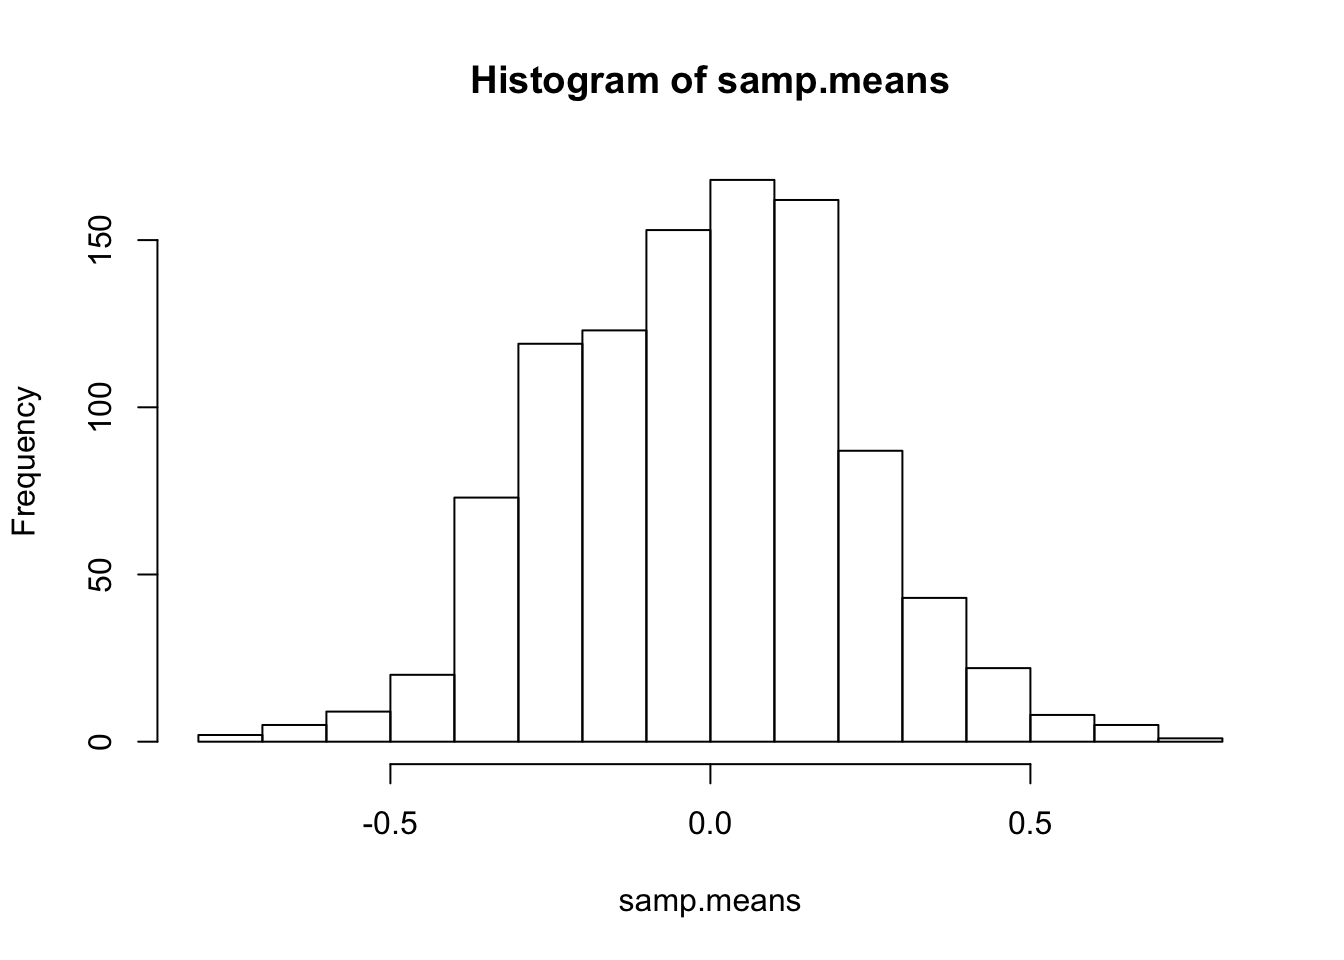
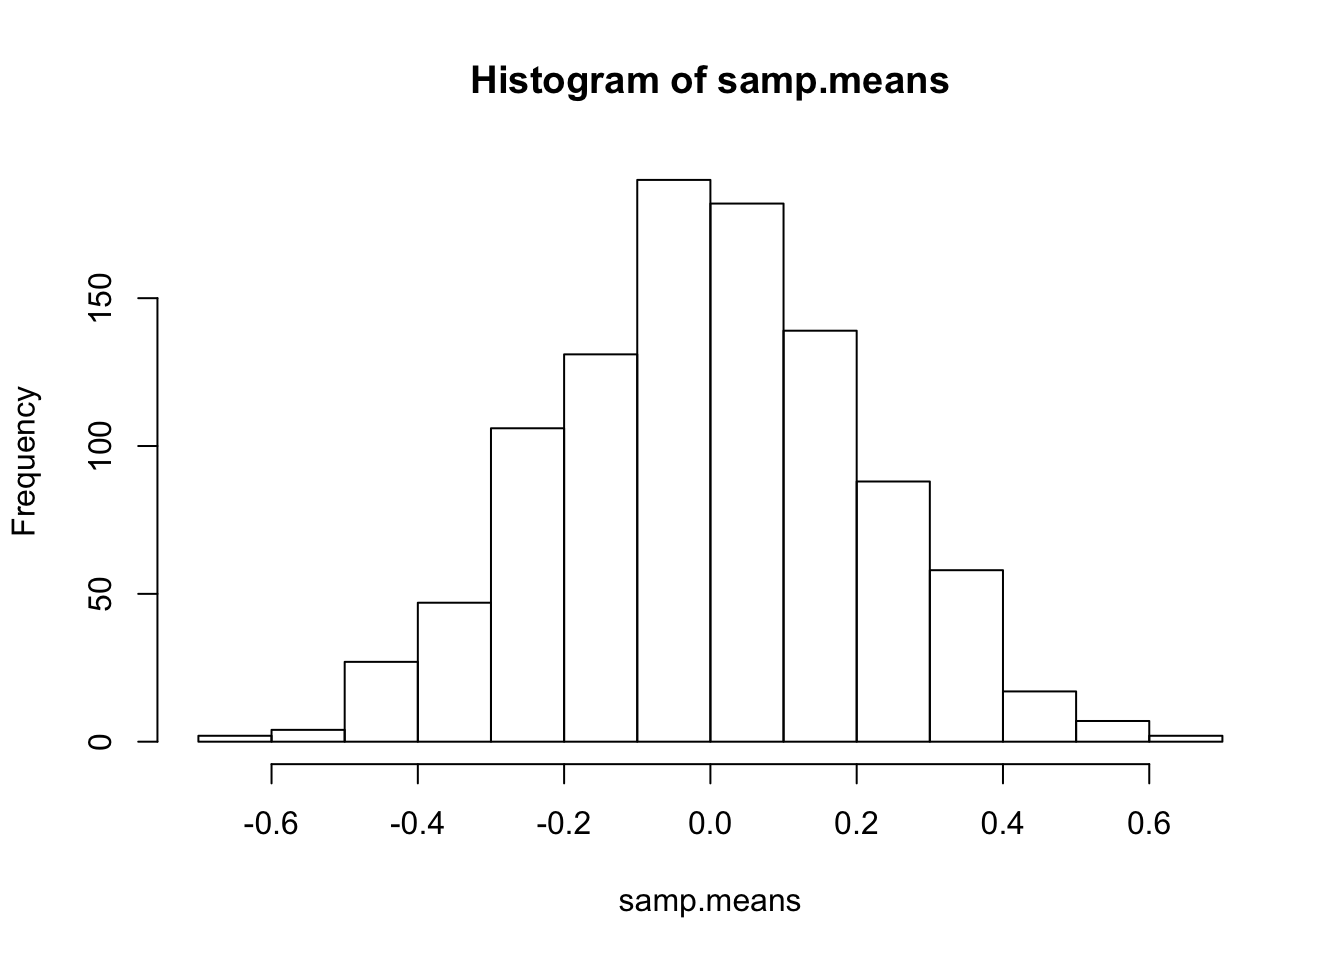
added mse

diff --git a/docs/randomvars.html b/docs/randomvars.html
@@ -218,6 +218,10 @@ code span.wa { color: #60a0b0; font-weight: bold; font-style: italic; } /* Warni
 <li class="chapter" data-level="6.2" data-path="estimators.html"><a href="estimators.html#variance"><i class="fa fa-check"></i><b>6.2</b> Variance</a><ul>
 <li class="chapter" data-level="6.2.1" data-path="estimators.html"><a href="estimators.html#exercise-set-6-2"><i class="fa fa-check"></i><b>6.2.1</b> Exercise set 6-2</a></li>
 </ul></li>
+<li class="chapter" data-level="6.3" data-path="estimators.html"><a href="estimators.html#mean-squared-error"><i class="fa fa-check"></i><b>6.3</b> Mean squared error</a><ul>
+<li class="chapter" data-level="6.3.1" data-path="estimators.html"><a href="estimators.html#exercise-set-6-3"><i class="fa fa-check"></i><b>6.3.1</b> Exercise set 6-3</a></li>
+</ul></li>
+<li class="chapter" data-level="6.4" data-path="estimators.html"><a href="estimators.html#consistency"><i class="fa fa-check"></i><b>6.4</b> Consistency</a></li>
 </ul></li>
 <li class="divider"></li>
 <li><a href="https://github.com/rstudio/bookdown" target="blank">Published with bookdown</a></li>
@@ -450,11 +454,11 @@ The expectation is:</p>
 <a class="sourceLine" id="cb78-5" title="5"><span class="co"># Each row represents a sample (instance) drawn from X_i</span></a>
 <a class="sourceLine" id="cb78-6" title="6">samp.mat &lt;-<span class="st"> </span><span class="kw">matrix</span>(samps, <span class="dt">ncol =</span> n.samps) </a>
 <a class="sourceLine" id="cb78-7" title="7"><span class="kw">str</span>(samp.mat)</a></code></pre></div>
-<pre><code>##  num [1:20, 1:1000] 1.5807 1.7095 0.0137 0.0214 -1.0792 ...</code></pre>
+<pre><code>##  num [1:20, 1:1000] 0.8825 -1.5898 -0.0298 0.0718 -1.9152 ...</code></pre>
 <div class="sourceCode" id="cb80"><pre class="sourceCode r"><code class="sourceCode r"><a class="sourceLine" id="cb80-1" title="1"><span class="co"># Here we calculate the sample mean for each X_i (column)</span></a>
 <a class="sourceLine" id="cb80-2" title="2">samp.means &lt;-<span class="st"> </span><span class="kw">colMeans</span>(samp.mat)</a>
 <a class="sourceLine" id="cb80-3" title="3"><span class="kw">str</span>(samp.means)</a></code></pre></div>
-<pre><code>##  num [1:1000] -0.3008 0.0284 -0.3274 -0.3161 0.3096 ...</code></pre>
+<pre><code>##  num [1:1000] -0.104 0.13 -0.503 -0.188 0.161 ...</code></pre>
 <div class="sourceCode" id="cb82"><pre class="sourceCode r"><code class="sourceCode r"><a class="sourceLine" id="cb82-1" title="1"><span class="kw">hist</span>(samp.means)</a></code></pre></div>
 <p><img src="05_random-variables_files/figure-html/unnamed-chunk-1-1.png" width="672" /></p>
 <p>2a. What happens if we change <code>samp.size</code> (i.e., <span class="math inline">\(n\)</span>)?</p>
@@ -766,7 +770,7 @@ f_{X|Y}(x |Y = y) =&amp; \frac{f_{X,Y}(x,y)}{f_{Y}(y)}
 ##     lines(x, dnorm(x, mean = mean(dosm), sd = sd(dosm)))
 ##     c(`mean of DOSM` = mean(dosm), `SD of DOSM` = sd(dosm), `var of DOSM` = var(dosm))
 ## }
-## &lt;bytecode: 0x7f9be028a080&gt;
+## &lt;bytecode: 0x7fed27965a08&gt;
 ## &lt;environment: namespace:stfspack&gt;</code></pre>
 <div class="sourceCode" id="cb101"><pre class="sourceCode r"><code class="sourceCode r"><a class="sourceLine" id="cb101-1" title="1">nsim &lt;-<span class="st"> </span><span class="dv">10000</span></a>
 <a class="sourceLine" id="cb101-2" title="2">n &lt;-<span class="st"> </span><span class="dv">1</span></a>
@@ -839,7 +843,7 @@ If the shape parameter is <span class="math inline">\(\leq\)</span> 2, <span cla
 ##     mean(x &lt; (mu - k * sigma) | x &gt; (mu + k * sigma))/(1 - (pnorm(k) - 
 ##         pnorm(-k)))
 ## }
-## &lt;bytecode: 0x7f9be02ddee0&gt;
+## &lt;bytecode: 0x7fed27975bf8&gt;
 ## &lt;environment: namespace:stfspack&gt;</code></pre>
 <div class="sourceCode" id="cb114"><pre class="sourceCode r"><code class="sourceCode r"><a class="sourceLine" id="cb114-1" title="1">k &lt;-<span class="st"> </span><span class="dv">2</span> <span class="co"># sds</span></a>
 <a class="sourceLine" id="cb114-2" title="2"><span class="kw">compare.tail.to.normal</span>(<span class="dt">x =</span> x, <span class="dt">k =</span> k, <span class="dt">mu =</span> mu, <span class="dt">sigma =</span> stdev)</a></code></pre></div>
@@ -1082,7 +1086,7 @@ Y = \alpha + \beta X + \epsilon \\
 ##     y &lt;- a + b * x + disturbs
 ##     cbind(x, y)
 ## }
-## &lt;bytecode: 0x7f9be1e4f8e0&gt;
+## &lt;bytecode: 0x7fed2781e900&gt;
 ## &lt;environment: namespace:stfspack&gt;</code></pre>
 <div class="sourceCode" id="cb166"><pre class="sourceCode r"><code class="sourceCode r"><a class="sourceLine" id="cb166-1" title="1">sim_<span class="dv">0</span>_<span class="dv">1</span> &lt;-<span class="st"> </span><span class="kw">sim.lm</span>(<span class="dt">n =</span> <span class="dv">50</span>, <span class="dt">a =</span> <span class="dv">0</span>, <span class="dt">b =</span> <span class="dv">1</span>)</a>
 <a class="sourceLine" id="cb166-2" title="2"><span class="kw">head</span>(sim_<span class="dv">0</span>_<span class="dv">1</span>)</a></code></pre></div>

diff --git a/docs/estimators.html b/docs/estimators.html
@@ -218,6 +218,10 @@ code span.wa { color: #60a0b0; font-weight: bold; font-style: italic; } /* Warni
 <li class="chapter" data-level="6.2" data-path="estimators.html"><a href="estimators.html#variance"><i class="fa fa-check"></i><b>6.2</b> Variance</a><ul>
 <li class="chapter" data-level="6.2.1" data-path="estimators.html"><a href="estimators.html#exercise-set-6-2"><i class="fa fa-check"></i><b>6.2.1</b> Exercise set 6-2</a></li>
 </ul></li>
+<li class="chapter" data-level="6.3" data-path="estimators.html"><a href="estimators.html#mean-squared-error"><i class="fa fa-check"></i><b>6.3</b> Mean squared error</a><ul>
+<li class="chapter" data-level="6.3.1" data-path="estimators.html"><a href="estimators.html#exercise-set-6-3"><i class="fa fa-check"></i><b>6.3.1</b> Exercise set 6-3</a></li>
+</ul></li>
+<li class="chapter" data-level="6.4" data-path="estimators.html"><a href="estimators.html#consistency"><i class="fa fa-check"></i><b>6.4</b> Consistency</a></li>
 </ul></li>
 <li class="divider"></li>
 <li><a href="https://github.com/rstudio/bookdown" target="blank">Published with bookdown</a></li>
@@ -334,8 +338,28 @@ code span.wa { color: #60a0b0; font-weight: bold; font-style: italic; } /* Warni
 <a class="sourceLine" id="cb184-6" title="6"><span class="st">  </span><span class="kw">geom_density</span>(<span class="dt">alpha =</span> <span class="fl">0.3</span>)</a></code></pre></div>
 <p><img src="06_point-estimators_files/figure-html/unnamed-chunk-3-1.png" width="672" /></p>
 <p>The sample median has a larger variance than the sample mean.</p>
-
 </div>
+</div>
+<div id="mean-squared-error" class="section level2">
+<h2><span class="header-section-number">6.3</span> Mean squared error</h2>
+<p>The <em>mean squared error</em> is a metric that combines bias (accuracy) and variance (precision) in one metric. It is the expected squared difference between the value of an estimator and the true quantity:</p>
+<p><span class="math display">\[
+\begin{aligned}
+\text{MSE}(\hat{\theta}_n) =&amp; ~ E[(\hat{\theta}_n(D) - \theta)^2] \\
+=&amp; ~ \text{B}(\hat{\theta}_n)^2 + \text{Var}(\hat{\theta}_n)
+\end{aligned}
+\]</span></p>
+<div id="exercise-set-6-3" class="section level3">
+<h3><span class="header-section-number">6.3.1</span> Exercise set 6-3</h3>
+<ol style="list-style-type: decimal">
+<li><p>See handwritten notes or Edge solution.</p></li>
+<li><p>When estimating the first parameter of a normal distribution, the sample mean will have a lower mean squared error. This is because although both are unbiased estimators, the sample median has a higher variance. If bias for both is equal to zero, then the mean square error is simply the variance of the estimator.</p></li>
+</ol>
+</div>
+</div>
+<div id="consistency" class="section level2">
+<h2><span class="header-section-number">6.4</span> Consistency</h2>
+
 </div>
 </div>
             </section>

diff --git a/docs/best-fit-line.html b/docs/best-fit-line.html
@@ -218,6 +218,10 @@ code span.wa { color: #60a0b0; font-weight: bold; font-style: italic; } /* Warni
 <li class="chapter" data-level="6.2" data-path="estimators.html"><a href="estimators.html#variance"><i class="fa fa-check"></i><b>6.2</b> Variance</a><ul>
 <li class="chapter" data-level="6.2.1" data-path="estimators.html"><a href="estimators.html#exercise-set-6-2"><i class="fa fa-check"></i><b>6.2.1</b> Exercise set 6-2</a></li>
 </ul></li>
+<li class="chapter" data-level="6.3" data-path="estimators.html"><a href="estimators.html#mean-squared-error"><i class="fa fa-check"></i><b>6.3</b> Mean squared error</a><ul>
+<li class="chapter" data-level="6.3.1" data-path="estimators.html"><a href="estimators.html#exercise-set-6-3"><i class="fa fa-check"></i><b>6.3.1</b> Exercise set 6-3</a></li>
+</ul></li>
+<li class="chapter" data-level="6.4" data-path="estimators.html"><a href="estimators.html#consistency"><i class="fa fa-check"></i><b>6.4</b> Consistency</a></li>
 </ul></li>
 <li class="divider"></li>
 <li><a href="https://github.com/rstudio/bookdown" target="blank">Published with bookdown</a></li>

diff --git a/docs/index.html b/docs/index.html
@@ -218,6 +218,10 @@ code span.wa { color: #60a0b0; font-weight: bold; font-style: italic; } /* Warni
 <li class="chapter" data-level="6.2" data-path="estimators.html"><a href="estimators.html#variance"><i class="fa fa-check"></i><b>6.2</b> Variance</a><ul>
 <li class="chapter" data-level="6.2.1" data-path="estimators.html"><a href="estimators.html#exercise-set-6-2"><i class="fa fa-check"></i><b>6.2.1</b> Exercise set 6-2</a></li>
 </ul></li>
+<li class="chapter" data-level="6.3" data-path="estimators.html"><a href="estimators.html#mean-squared-error"><i class="fa fa-check"></i><b>6.3</b> Mean squared error</a><ul>
+<li class="chapter" data-level="6.3.1" data-path="estimators.html"><a href="estimators.html#exercise-set-6-3"><i class="fa fa-check"></i><b>6.3.1</b> Exercise set 6-3</a></li>
+</ul></li>
+<li class="chapter" data-level="6.4" data-path="estimators.html"><a href="estimators.html#consistency"><i class="fa fa-check"></i><b>6.4</b> Consistency</a></li>
 </ul></li>
 <li class="divider"></li>
 <li><a href="https://github.com/rstudio/bookdown" target="blank">Published with bookdown</a></li>

diff --git a/docs/intro.html b/docs/intro.html
@@ -218,6 +218,10 @@ code span.wa { color: #60a0b0; font-weight: bold; font-style: italic; } /* Warni
 <li class="chapter" data-level="6.2" data-path="estimators.html"><a href="estimators.html#variance"><i class="fa fa-check"></i><b>6.2</b> Variance</a><ul>
 <li class="chapter" data-level="6.2.1" data-path="estimators.html"><a href="estimators.html#exercise-set-6-2"><i class="fa fa-check"></i><b>6.2.1</b> Exercise set 6-2</a></li>
 </ul></li>
+<li class="chapter" data-level="6.3" data-path="estimators.html"><a href="estimators.html#mean-squared-error"><i class="fa fa-check"></i><b>6.3</b> Mean squared error</a><ul>
+<li class="chapter" data-level="6.3.1" data-path="estimators.html"><a href="estimators.html#exercise-set-6-3"><i class="fa fa-check"></i><b>6.3.1</b> Exercise set 6-3</a></li>
+</ul></li>
+<li class="chapter" data-level="6.4" data-path="estimators.html"><a href="estimators.html#consistency"><i class="fa fa-check"></i><b>6.4</b> Consistency</a></li>
 </ul></li>
 <li class="divider"></li>
 <li><a href="https://github.com/rstudio/bookdown" target="blank">Published with bookdown</a></li>

diff --git a/docs/probability.html b/docs/probability.html
@@ -218,6 +218,10 @@ code span.wa { color: #60a0b0; font-weight: bold; font-style: italic; } /* Warni
 <li class="chapter" data-level="6.2" data-path="estimators.html"><a href="estimators.html#variance"><i class="fa fa-check"></i><b>6.2</b> Variance</a><ul>
 <li class="chapter" data-level="6.2.1" data-path="estimators.html"><a href="estimators.html#exercise-set-6-2"><i class="fa fa-check"></i><b>6.2.1</b> Exercise set 6-2</a></li>
 </ul></li>
+<li class="chapter" data-level="6.3" data-path="estimators.html"><a href="estimators.html#mean-squared-error"><i class="fa fa-check"></i><b>6.3</b> Mean squared error</a><ul>
+<li class="chapter" data-level="6.3.1" data-path="estimators.html"><a href="estimators.html#exercise-set-6-3"><i class="fa fa-check"></i><b>6.3.1</b> Exercise set 6-3</a></li>
+</ul></li>
+<li class="chapter" data-level="6.4" data-path="estimators.html"><a href="estimators.html#consistency"><i class="fa fa-check"></i><b>6.4</b> Consistency</a></li>
 </ul></li>
 <li class="divider"></li>
 <li><a href="https://github.com/rstudio/bookdown" target="blank">Published with bookdown</a></li>

diff --git a/docs/r-eda.html b/docs/r-eda.html
@@ -218,6 +218,10 @@ code span.wa { color: #60a0b0; font-weight: bold; font-style: italic; } /* Warni
 <li class="chapter" data-level="6.2" data-path="estimators.html"><a href="estimators.html#variance"><i class="fa fa-check"></i><b>6.2</b> Variance</a><ul>
 <li class="chapter" data-level="6.2.1" data-path="estimators.html"><a href="estimators.html#exercise-set-6-2"><i class="fa fa-check"></i><b>6.2.1</b> Exercise set 6-2</a></li>
 </ul></li>
+<li class="chapter" data-level="6.3" data-path="estimators.html"><a href="estimators.html#mean-squared-error"><i class="fa fa-check"></i><b>6.3</b> Mean squared error</a><ul>
+<li class="chapter" data-level="6.3.1" data-path="estimators.html"><a href="estimators.html#exercise-set-6-3"><i class="fa fa-check"></i><b>6.3.1</b> Exercise set 6-3</a></li>
+</ul></li>
+<li class="chapter" data-level="6.4" data-path="estimators.html"><a href="estimators.html#consistency"><i class="fa fa-check"></i><b>6.4</b> Consistency</a></li>
 </ul></li>
 <li class="divider"></li>
 <li><a href="https://github.com/rstudio/bookdown" target="blank">Published with bookdown</a></li>

diff --git a/docs/05_random-variables.md b/docs/05_random-variables.md
@@ -279,7 +279,7 @@ str(samp.mat)
 ```
 
 ```
-##  num [1:20, 1:1000] 1.5807 1.7095 0.0137 0.0214 -1.0792 ...
+##  num [1:20, 1:1000] 0.8825 -1.5898 -0.0298 0.0718 -1.9152 ...
 ```
 
 ```r
@@ -289,7 +289,7 @@ str(samp.means)
 ```
 
 ```
-##  num [1:1000] -0.3008 0.0284 -0.3274 -0.3161 0.3096 ...
+##  num [1:1000] -0.104 0.13 -0.503 -0.188 0.161 ...
 ```
 
 ```r
@@ -725,7 +725,7 @@ dosm.beta.hist
 ##     lines(x, dnorm(x, mean = mean(dosm), sd = sd(dosm)))
 ##     c(`mean of DOSM` = mean(dosm), `SD of DOSM` = sd(dosm), `var of DOSM` = var(dosm))
 ## }
-## <bytecode: 0x7f9be028a080>
+## <bytecode: 0x7fed27965a08>
 ## <environment: namespace:stfspack>
 ```
 
@@ -842,7 +842,7 @@ compare.tail.to.normal
 ##     mean(x < (mu - k * sigma) | x > (mu + k * sigma))/(1 - (pnorm(k) - 
 ##         pnorm(-k)))
 ## }
-## <bytecode: 0x7f9be02ddee0>
+## <bytecode: 0x7fed27975bf8>
 ## <environment: namespace:stfspack>
 ```
 
@@ -1273,7 +1273,7 @@ sim.lm
 ##     y <- a + b * x + disturbs
 ##     cbind(x, y)
 ## }
-## <bytecode: 0x7f9be1e4f8e0>
+## <bytecode: 0x7fed2781e900>
 ## <environment: namespace:stfspack>
 ```
 

diff --git a/docs/06_point-estimators.md b/docs/06_point-estimators.md
@@ -153,3 +153,23 @@ df %>%
 <img src="06_point-estimators_files/figure-html/unnamed-chunk-3-1.png" width="672" />
 
 The sample median has a larger variance than the sample mean. 
+
+## Mean squared error
+
+The *mean squared error* is a metric that combines bias (accuracy) and variance (precision) in one metric. It is the expected squared difference between the value of an estimator and the true quantity:
+
+$$
+\begin{aligned}
+\text{MSE}(\hat{\theta}_n) =& ~ E[(\hat{\theta}_n(D) - \theta)^2] \\
+=& ~ \text{B}(\hat{\theta}_n)^2 + \text{Var}(\hat{\theta}_n)
+\end{aligned}
+$$
+
+### Exercise set 6-3
+
+1. See handwritten notes or Edge solution. 
+
+2. When estimating the first parameter of a normal distribution, the sample mean will have a lower mean squared error. This is because although both are unbiased estimators, the sample median has a higher variance. If bias for both is equal to zero, then the mean square error is simply the variance of the estimator. 
+
+## Consistency
+
